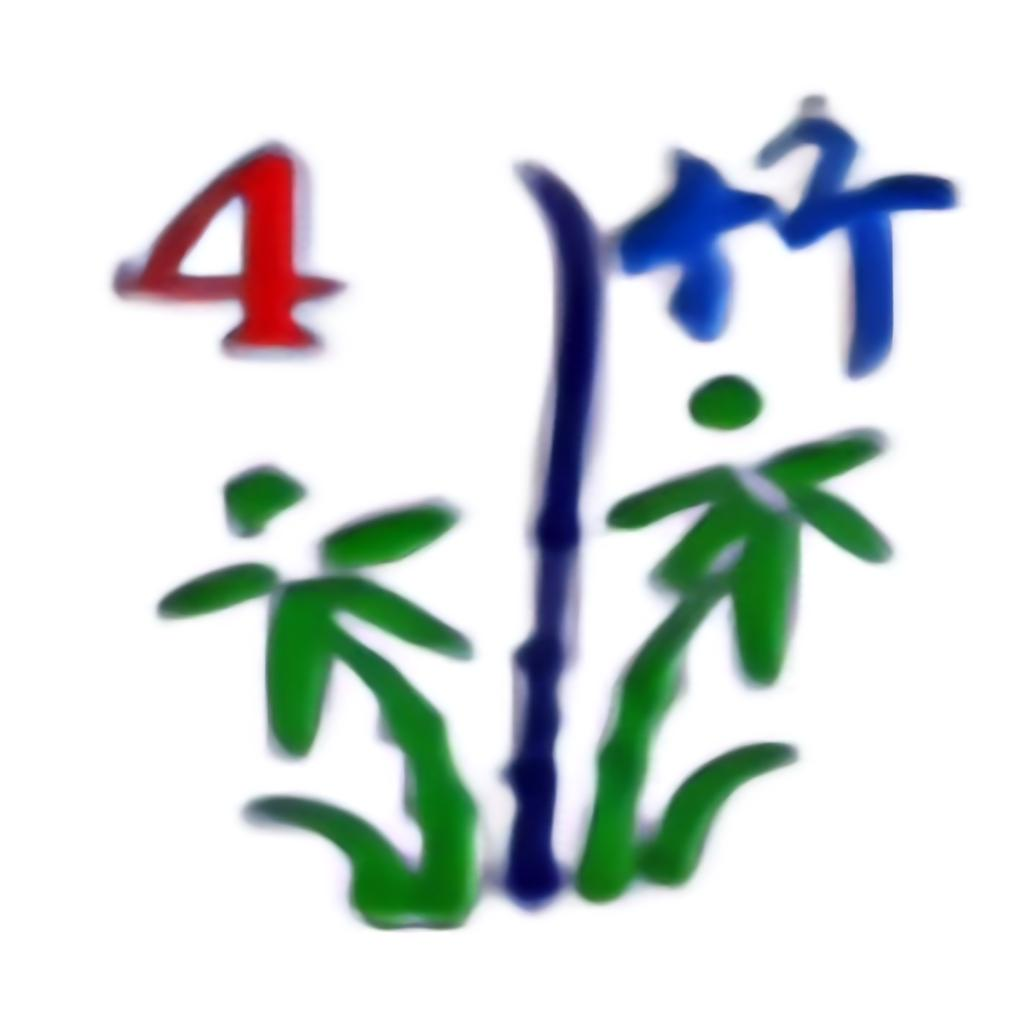
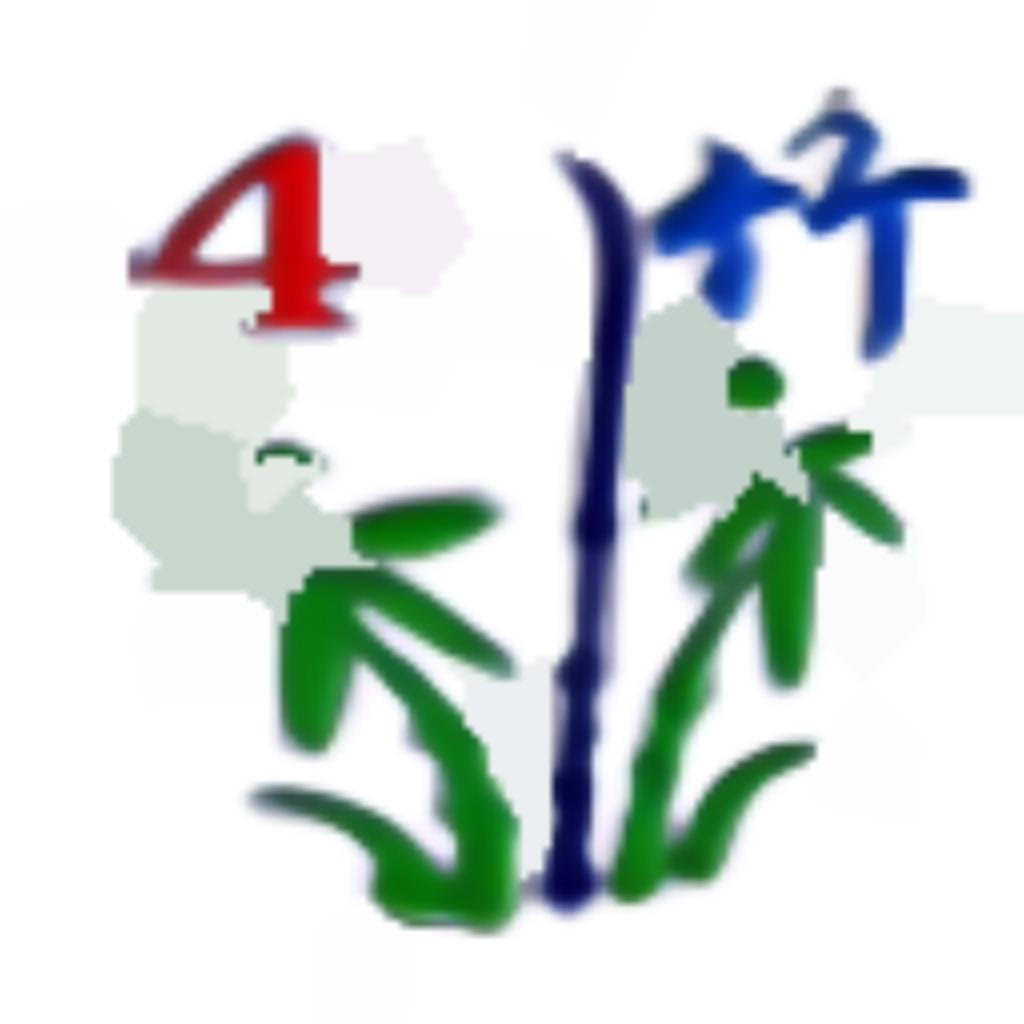
python update

diff --git a/Assets/main.py b/Assets/main.py
@@ -7,8 +7,10 @@ import imageio , os , glob , sys , random
 def generateImage(loadPath,savePath):
  
  fileName = glob.glob(loadPath)
+ 
  if os.path.exists(savePath) == False:
   os.mkdir(savePath)
+  
  images = []
  for name in fileName:
   image = imageio.imread(name)
@@ -18,6 +20,7 @@ def generateImage(loadPath,savePath):
  mode = random.randint(0,100)
  aug = iaa.Sequential()
  mode = mode % 3
+ 
  if mode == 0:
   size = random.uniform(0.01,0.02) 
   density = random.uniform(0.15,0.3) 
@@ -28,7 +31,9 @@ def generateImage(loadPath,savePath):
   replace = random.uniform(0.4,0.5) 
   aug.add(iaa.PiecewiseAffine(scale=(0.02), nb_cols=(2,col), nb_rows=(2,row)))
   aug.add(iaa.Superpixels(p_replace=(0.3,replace), n_segments=100) )	
+  
  batches_aug = list(aug.augment_batches(batches, background=False))
+ 
  i = 0
  for name in fileName:
   imageio.imwrite(os.path.join(savePath, os.path.basename(name)), np.uint8(batches_aug[0].images_aug[i]))

diff --git a/Assets/Manager.cs b/Assets/Manager.cs
@@ -66,11 +66,11 @@ public class Manager : MonoBehaviour
         {
             if (i % 25 == 0)
             {
-                var source = Application.dataPath + "/Mj/Resources/";
+                var source = "\"" + Application.dataPath + "/Mj/Resources/";
                 for (int j = 0; j < 6; j++)
                 {
-                    string path = source + resourcesPath[j];
-                    string savePath = source + "imgaug" + Convert.ToString(j + 1) ;
+                    string path = source + resourcesPath[j] + "*.jpg\"";
+                    string savePath = source + "imgaug" + Convert.ToString(j + 1) + "\"";
                     python.callPython(path, savePath);
                 }
             }

diff --git a/Assets/Python.cs b/Assets/Python.cs
@@ -22,12 +22,10 @@ public class Python : MonoBehaviour
     {
         Process p = new Process();
         string sArgName = "main.py";
-        string path = @"C:\Users\chsu\Desktop\" + sArgName;
+        string path = "\"" + Application.dataPath + "/" + sArgName + "\"";
         string sArguments = path;
         p.StartInfo.FileName = "python.exe";
-        loadPath += "*.jpg";
         sArguments += " " + loadPath + " " + savePath;
-        UnityEngine.Debug.Log(sArguments);
         p.StartInfo.Arguments = sArguments;
         p.StartInfo.UseShellExecute = false; //必需
         p.StartInfo.RedirectStandardOutput = true;//輸出引數設定
